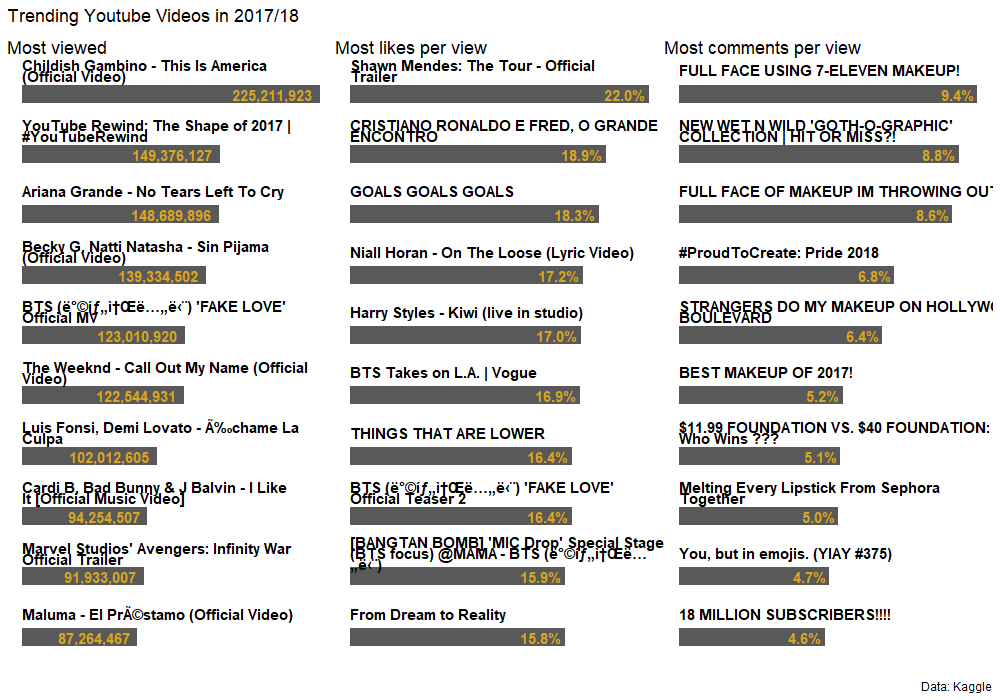
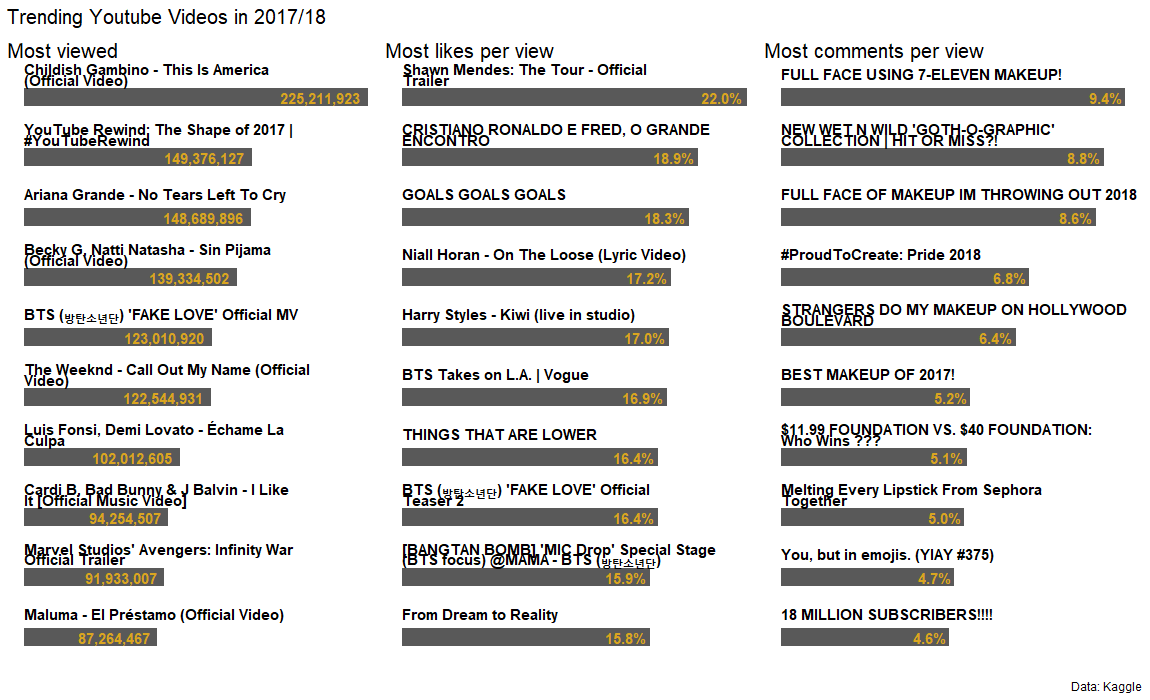
Encoding problem solved

diff --git a/day17_pop_culture/change_encoding.py b/day17_pop_culture/change_encoding.py
@@ -8,4 +8,5 @@ Created on Sat Sep  5 11:05:24 2020
 
 
 def change_encoding(text):
-    return text.encode('latin-1').decode('utf-8')
+    return text.encode('Windows-1252', errors = "ignore").decode('UTF-8', errors = "ignore")
+
